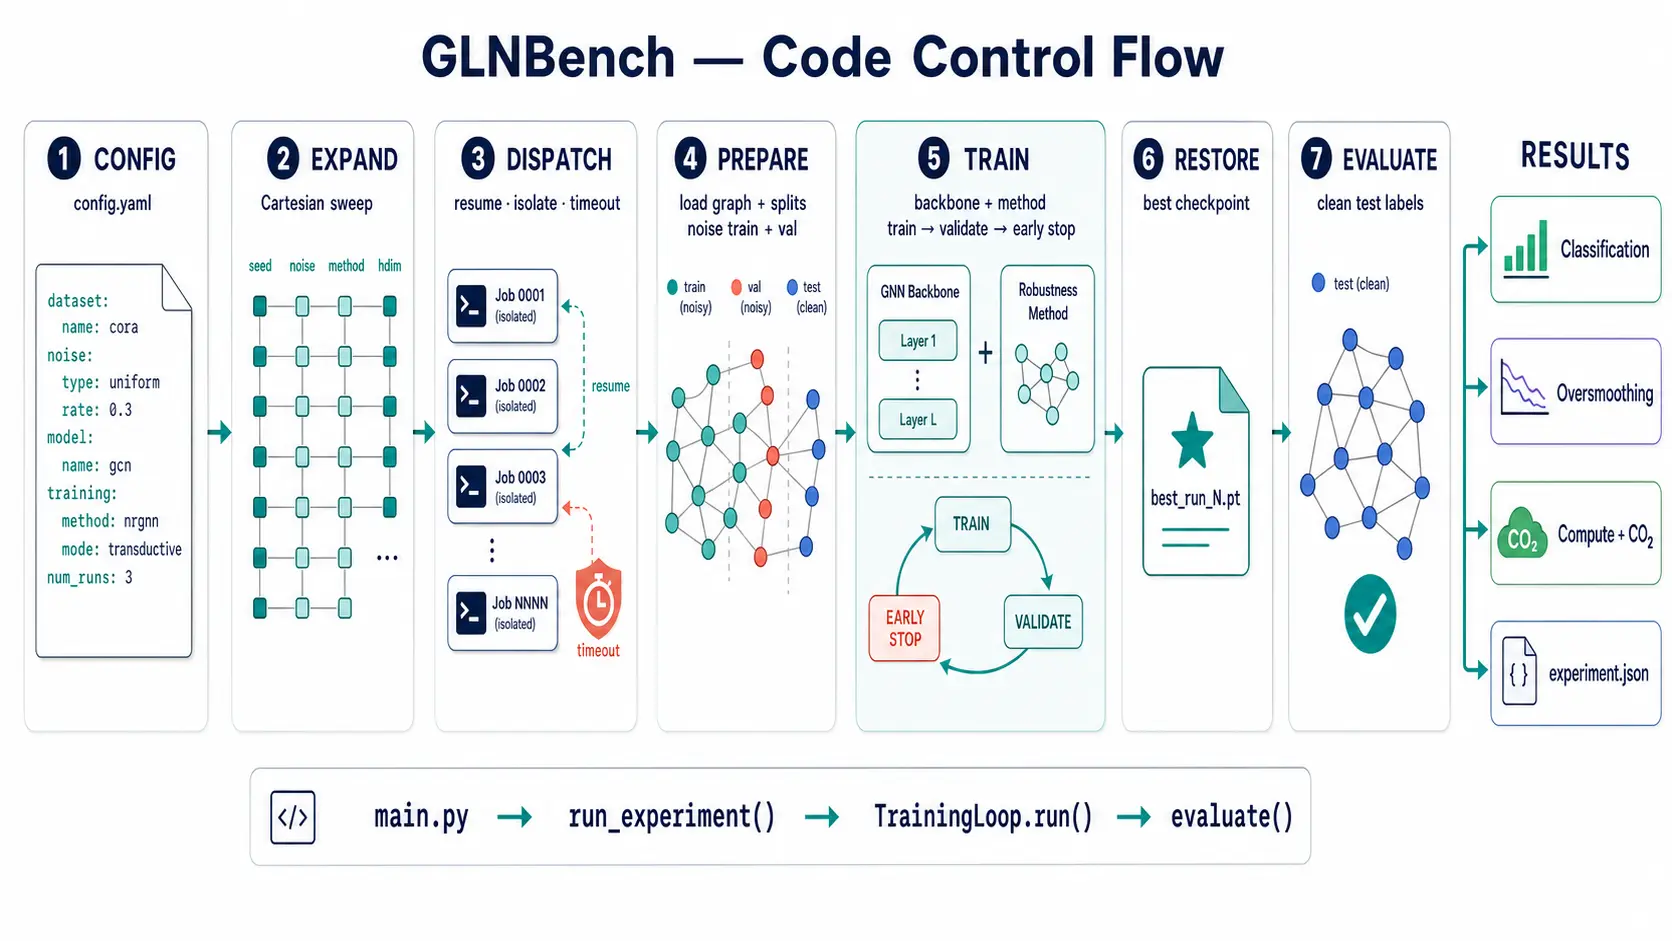
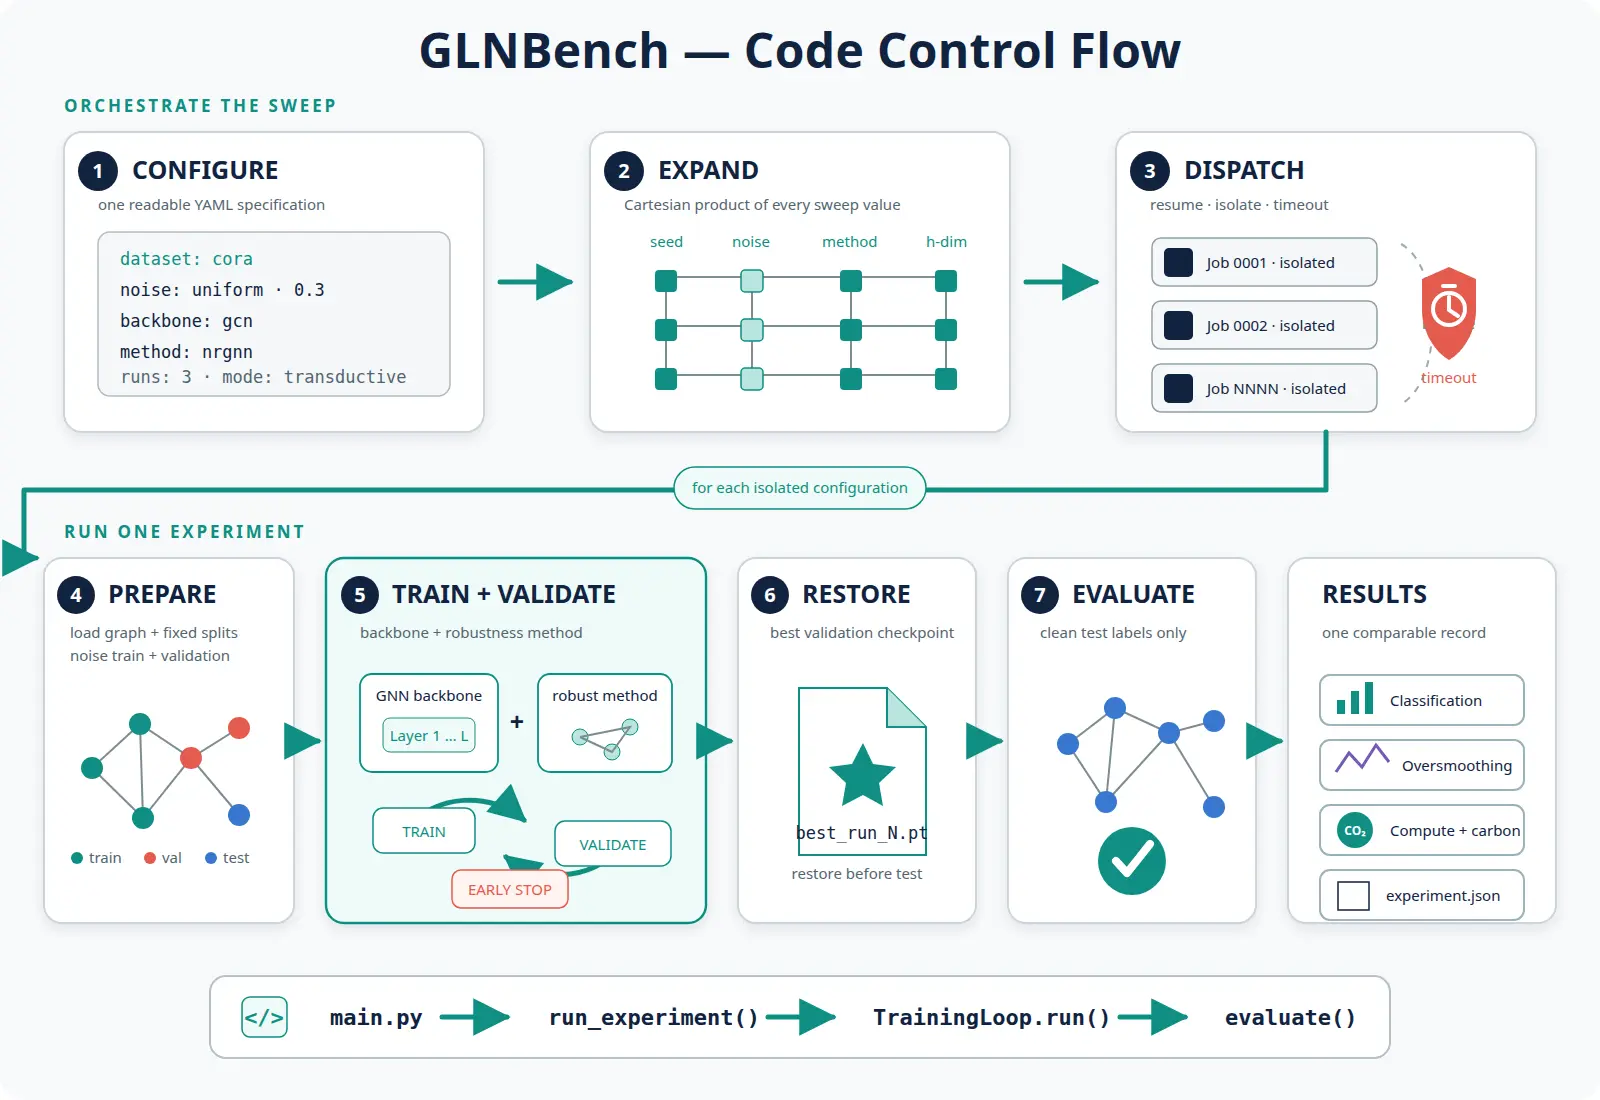
added the teaser

diff --git a/index.html b/index.html
@@ -183,7 +183,10 @@
     font-family:var(--font-mono); font-size:12.5px; color:var(--muted); letter-spacing:.02em;
   }
   .figframe .dot{width:9px;height:9px;border-radius:50%;background:var(--accent);flex:none}
+  .figframe .diagram-scroll{overflow-x:auto}
+  .figframe picture{display:block}
   .figframe img{display:block; width:100%; height:auto; background:#fff}
+  @media (max-width:760px){ .figframe .diagram-scroll picture{min-width:900px} }
 
   /* findings */
   .find{display:grid; grid-template-columns:repeat(2,1fr); gap:18px}
@@ -338,7 +341,12 @@
     <p>Every configuration flows through the same path: apply the selected label-noise process, assemble a backbone with a robustness method, train with early stopping while probing oversmoothing, then evaluate on the clean test split.</p></div>
     <div class="figframe">
       <div class="cap"><span class="dot"></span> pipeline overview&ensp;·&ensp;<span class="mono">config.yaml → Cartesian sweep → mean ± std</span></div>
-      <img src="teaser-control-flow.webp" width="1672" height="941" loading="lazy" decoding="async" alt="GLNBench code control flow: config.yaml expands into isolated runs; each run loads graph splits, adds train and validation label noise, combines a GNN backbone with a robustness method, trains with validation and early stopping, restores the best checkpoint, evaluates on clean test labels, and writes classification, oversmoothing, compute, carbon, and JSON results.">
+      <div class="diagram-scroll" role="region" aria-label="Scrollable pipeline diagram" tabindex="0">
+        <picture>
+          <source srcset="teaser-control-flow.svg" type="image/svg+xml">
+          <img src="teaser-control-flow.webp" width="1600" height="1100" loading="lazy" decoding="async" alt="GLNBench two-row code control flow: config.yaml expands into isolated runs; each run loads graph splits, adds train and validation label noise, combines a GNN backbone with a robustness method, trains with validation and early stopping, restores the best checkpoint, evaluates on clean test labels, and writes classification, oversmoothing, compute, carbon, and JSON results.">
+        </picture>
+      </div>
     </div>
   </div>
 </section>